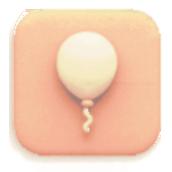
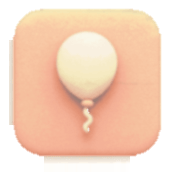
气球/公文包 tile 清掉边缘孤立异色点:用户反馈「阴影是对的,但是边缘有其他颜色」。查实不是抠图不干净,是**移植影时夹带了参考实体自己的圆角 AA**。
根因:v17 起的影移植用「位于实体下方/左侧」作判据(逐像素按归一化坐标取参考影层)。该判据在**圆角外侧同样成立**——例如 tile 左上角的上方,那一列的 xx 仍小于该行实体的 row_left,于是被判成「左侧」,把参考影层里属于参考实体圆角 AA 的像素(半透明浅色 clay)逐点搬了过来,在我们的边缘留下一串孤立异色点。

实测:旧实现气球 9 个、公文包 12 个「四周亮(>246)而自身暗(<238)」的孤立点,参考 love/star 均为 0;这就是截图里沿上/左边缘那串浅色小点。

修法:影只铺在实体的**直边段**(下缘直段、左缘直段),圆角与角外区一律不铺——参考的影核本身也只延伸在直边段,故不削影。判据用拟合圆角半径 r 取直段:`yy∈[ty0+r, ty1-r]` 用于左缘、`xx∈[tx0+r, tx1-r]` 用于下缘。

实测(与 love 同口径):孤立异色点从 9/12 降到 **0/0**(参考 0);影剖面不变(下缘 d0..6 = 50.5 34.6 29.0 22.9 18.2 13.1,参考 47.8 40.4 34.5 29.0 22.8 18.2)。TinyPNG 落包 11.7KB/13.2KB。

tileShadow.test.ts 新增「边缘不得有孤立异色点」断言(统计四周亮、自身暗的孤立像素,须为 0);用上一版 v19 反向验证确实报错(9/12)。473 测试全过;清缓存重编译 + devtools 实机验收:气球/爱心/公文包三枚同屏,边缘干净无杂色点。

diff --git a/miniapp/src/config/tileShadow.test.ts b/miniapp/src/config/tileShadow.test.ts
@@ -119,8 +119,22 @@ describe('测试条 tile 与参考 tile 同族（影）', () => {
         const tol = Math.max(3, r * NEAR[i])
         expect(Math.abs(got.lft[i] - r), `左缘 d${i}（参考 ${r.toFixed(1)}）`).toBeLessThan(tol)
       }
-      // 上/右不应有落影
+      // 边缘不得有孤立异色点：移植影时圆角处会夹带参考实体自己的 AA 边颜色，
+      // 表现为「四周亮、自身暗」的孤立点（实测旧实现 9~12 个、参考为 0）。
       const img = decode(rel)
+      const lumAt = (x: number, y: number) => img.lum[y * img.width + x]
+      let odd = 0
+      for (let y = 1; y < img.height - 1; y += 1) {
+        for (let x = 1; x < img.width - 1; x += 1) {
+          if (img.alpha[y * img.width + x] < 10) continue
+          const bright = [lumAt(x, y - 1), lumAt(x, y + 1), lumAt(x - 1, y), lumAt(x + 1, y)]
+            .filter((v) => v > 246).length
+          if (bright >= 3 && lumAt(x, y) < 238) odd += 1
+        }
+      }
+      expect(odd, '边缘不应有孤立异色点').toBe(0)
+
+      // 上/右不应有落影
       expect(bandMean(img, 'top', BOX, 3), '上缘不应有落影').toBeLessThan(10)
       expect(bandMean(img, 'right', BOX, 3), '右缘不应有落影').toBeLessThan(10)
     })

diff --git a/miniapp/art/ref-pages-v3/fix-tile-shadow-v19.py b/miniapp/art/ref-pages-v3/fix-tile-shadow-v19.py
@@ -81,6 +81,24 @@ def _sdf_alpha(mask, ss=4):
     return signed.reshape(H, ss, W, ss).mean(axis=(1, 3))
 
 
+def _fit_radius(body):
+    """拟合实体圆角半径（取直边段用）。"""
+    from PIL import ImageDraw
+    ys, xs = np.where(body)
+    x0, y0, x1, y1 = int(xs.min()), int(ys.min()), int(xs.max()), int(ys.max())
+    H, W = body.shape
+    best = None
+    for r in range(2, 80):
+        m = Image.new('L', (W * 4, H * 4), 0)
+        ImageDraw.Draw(m).rounded_rectangle(
+            (x0 * 4, y0 * 4, (x1 + 1) * 4 - 1, (y1 + 1) * 4 - 1), radius=r * 4, fill=255)
+        mm = np.array(m.resize((W, H), Image.Resampling.BOX)) > 128
+        diff = int((mm ^ body).sum())
+        if best is None or diff < best[0]:
+            best = (diff, r)
+    return best[1], None
+
+
 def _ref_shadow(ref_path):
     a = np.asarray(Image.open(ref_path).convert('RGBA')).astype(float)
     A = a[..., 3]
@@ -132,8 +150,15 @@ def fix_tile(ref, name, out_name):
         if len(row):
             row_left[y] = int(row.min())
     yy, xx = np.mgrid[0:H, 0:W]
-    shadow_side = ((col_bottom[None, :] >= 0) & (yy > col_bottom[None, :])) \
-        | ((row_left[:, None] >= 0) & (xx < row_left[:, None]))
+    # 影只铺在实体的**直边段**（下缘直段、左缘直段），圆角与角外区一律不铺。
+    # 「位于实体下方 / 左侧」这个判据在圆角外侧同样成立（例如 tile 左上角的上方，
+    # xx 仍小于该行的 row_left），于是参考影层里属于参考实体圆角 AA 的像素被逐点搬来，
+    # 「边缘有其他颜色」。参考影核本身也只延伸在直边段，按直边段取不会削掉影。
+    rad = _fit_radius(body)[0]
+    straight_v = (yy >= ty0 + rad) & (yy <= ty1 - rad)
+    straight_h = (xx >= tx0 + rad) & (xx <= tx1 - rad)
+    shadow_side = ((col_bottom[None, :] >= 0) & (yy > col_bottom[None, :]) & straight_h) \
+        | ((row_left[:, None] >= 0) & (xx < row_left[:, None]) & straight_v)
 
     u = (xx - tx0) / max(1, (tx1 - tx0))
     v = (yy - ty0) / max(1, (ty1 - ty0))
